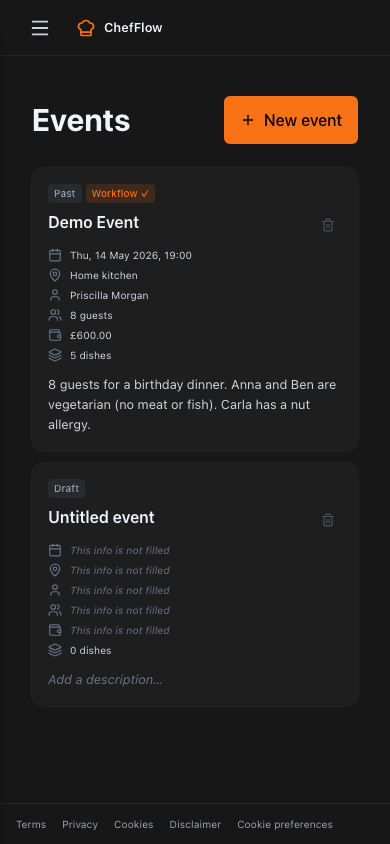
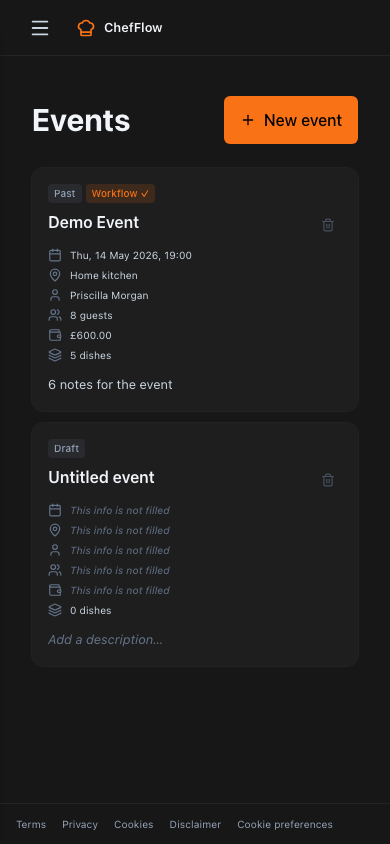
ui(event-card): replace full notes with bullet count
Render '6 notes for the event' instead of the truncated description text
so the card scans in one line. Counts non-empty trimmed lines (matches
the `\n`-joined bullets the worker demoSeed produces). Empty notes keep
the actionable 'Add a description…' placeholder.

Changed region(s): [[0.1231, 0.4313, 0.8615, 0.8318], [0.8308, 0.5545, 0.8615, 0.6469]]

diff --git a/chefflow/src/ui/components/EventCard.tsx b/chefflow/src/ui/components/EventCard.tsx
@@ -98,6 +98,14 @@ export default function EventCard({ event, onDelete, linkTo }: Props) {
   // array, and "0 dishes" is meaningful information rather than missing.
   const dishesValue = `${dishCount} dish${dishCount === 1 ? '' : 'es'}`;
 
+  // Notes are stored as one freeform string with `\n`-joined bullets
+  // (see worker demoSeed). Counting non-empty trimmed lines gives the
+  // chef a quick "how much was captured" number without dragging the
+  // full text onto the card.
+  const noteCount = event.notes
+    ? event.notes.split('\n').map((s) => s.trim()).filter(Boolean).length
+    : 0;
+
   return (
     <article className="flex flex-1 flex-col group rounded-xl ring-1 ring-white/5 bg-surface-2/40 hover:bg-surface-2/70 hover:ring-accent/40 p-4 transition-colors">
       {/* State pill row — at-a-glance scan of what's in the card without
@@ -143,14 +151,12 @@ export default function EventCard({ event, onDelete, linkTo }: Props) {
         <Meta icon={Layers} label="Dishes" value={dishesValue} />
       </div>
 
-      {/* Description / placeholder. mt-auto pins to the card's bottom
-          (T9 equal-height behaviour preserved). Real notes get body
-          weight (text-slate-300); empty gets italic-muted "Add a
-          description…" hint instead of the post-T12 "No description"
-          which read as filler. */}
-      <p className="mt-auto pt-3 text-sm line-clamp-3">
-        {event.notes
-          ? <span className="text-slate-300">{event.notes}</span>
+      {/* Notes summary — shows the count of bullets the chef captured
+          rather than the full text (which crowded the card and forced
+          line-clamp). mt-auto preserves T9's equal-height behaviour. */}
+      <p className="mt-auto pt-3 text-sm">
+        {noteCount > 0
+          ? <span className="text-slate-300">{noteCount} note{noteCount === 1 ? '' : 's'} for the event</span>
           : <span className="italic text-slate-500">Add a description…</span>}
       </p>
     </article>

diff --git a/chefflow/src/ui/components/EventCard.test.tsx b/chefflow/src/ui/components/EventCard.test.tsx
@@ -47,8 +47,29 @@ describe('EventCard (T15 redesign)', () => {
     // T21 — 6-row metadata block; Dishes row shows "1 dish".
     const meta = screen.getByTestId('event-card-meta');
     expect(meta.textContent).toContain('1 dish');
-    // Real description renders in body-weight slate-300.
-    expect(screen.getByText('8 guests for a birthday dinner.')).toBeInTheDocument();
+    // T21 follow-up — notes render as a count, not full text. baseEvent
+    // has a single-line `notes` string, so the count reads "1 note".
+    expect(screen.getByText('1 note for the event')).toBeInTheDocument();
+    expect(screen.queryByText('8 guests for a birthday dinner.')).toBeNull();
+  });
+
+  // T21 follow-up — notes count off non-empty lines. The worker demo
+  // event uses `\n`-joined bullets; this spec pins that a 6-line notes
+  // string renders as "6 notes for the event" (the example the user
+  // requested when asking for a count instead of the full text).
+  it('multi-line notes render as a count: "N notes for the event"', () => {
+    renderCard({
+      ...baseEvent,
+      notes: [
+        '8 guests for a birthday dinner.',
+        'Anna and Ben are vegetarian (no meat or fish).',
+        'Carla has a confirmed peanut allergy — strict.',
+        'Dave (birthday) loves a classic steak with peppercorn sauce.',
+        'Budget is generous (~£600 total food cost) — go for a five-dish lineup.',
+        'Casual ambience, no formal courses needed.',
+      ].join('\n'),
+    }, { onDelete: vi.fn() });
+    expect(screen.getByText('6 notes for the event')).toBeInTheDocument();
   });
 
   it('past event → Past pill, NOT Upcoming', () => {

diff --git a/chefflow/e2e/ux-audit-2026-06-02.spec.ts b/chefflow/e2e/ux-audit-2026-06-02.spec.ts
@@ -91,7 +91,17 @@ async function seedDexie(page: Page) {
         contactName: 'Priscilla Morgan',
         contactEmail: 'priscilla.morgan@example.com',
         contactPhone: '+44 7700 900456',
-        notes: '8 guests for a birthday dinner. Anna and Ben are vegetarian (no meat or fish). Carla has a nut allergy.',
+        // T21 follow-up — `\n`-joined bullets so the EventCard "N notes
+        // for the event" count reflects how chefs actually structure
+        // their notes (matches the worker demoSeed shape).
+        notes: [
+          '8 guests for a birthday dinner.',
+          'Anna and Ben are vegetarian (no meat or fish).',
+          'Carla has a confirmed peanut allergy — strict.',
+          'Dave (birthday) loves a classic steak with peppercorn sauce.',
+          'Budget is generous (~£600 total food cost) — go for a five-dish lineup.',
+          'Casual ambience, no formal courses needed.',
+        ].join('\n'),
         dishes: [
           { id: 'd1', recipeId, name: 'Crème Brûlée', portions: 8, startAt: '2026-05-14T17:00:00.000Z' },
           { id: 'd2', name: 'Starter salad', portions: 8, startAt: '2026-05-14T17:30:00.000Z' },
